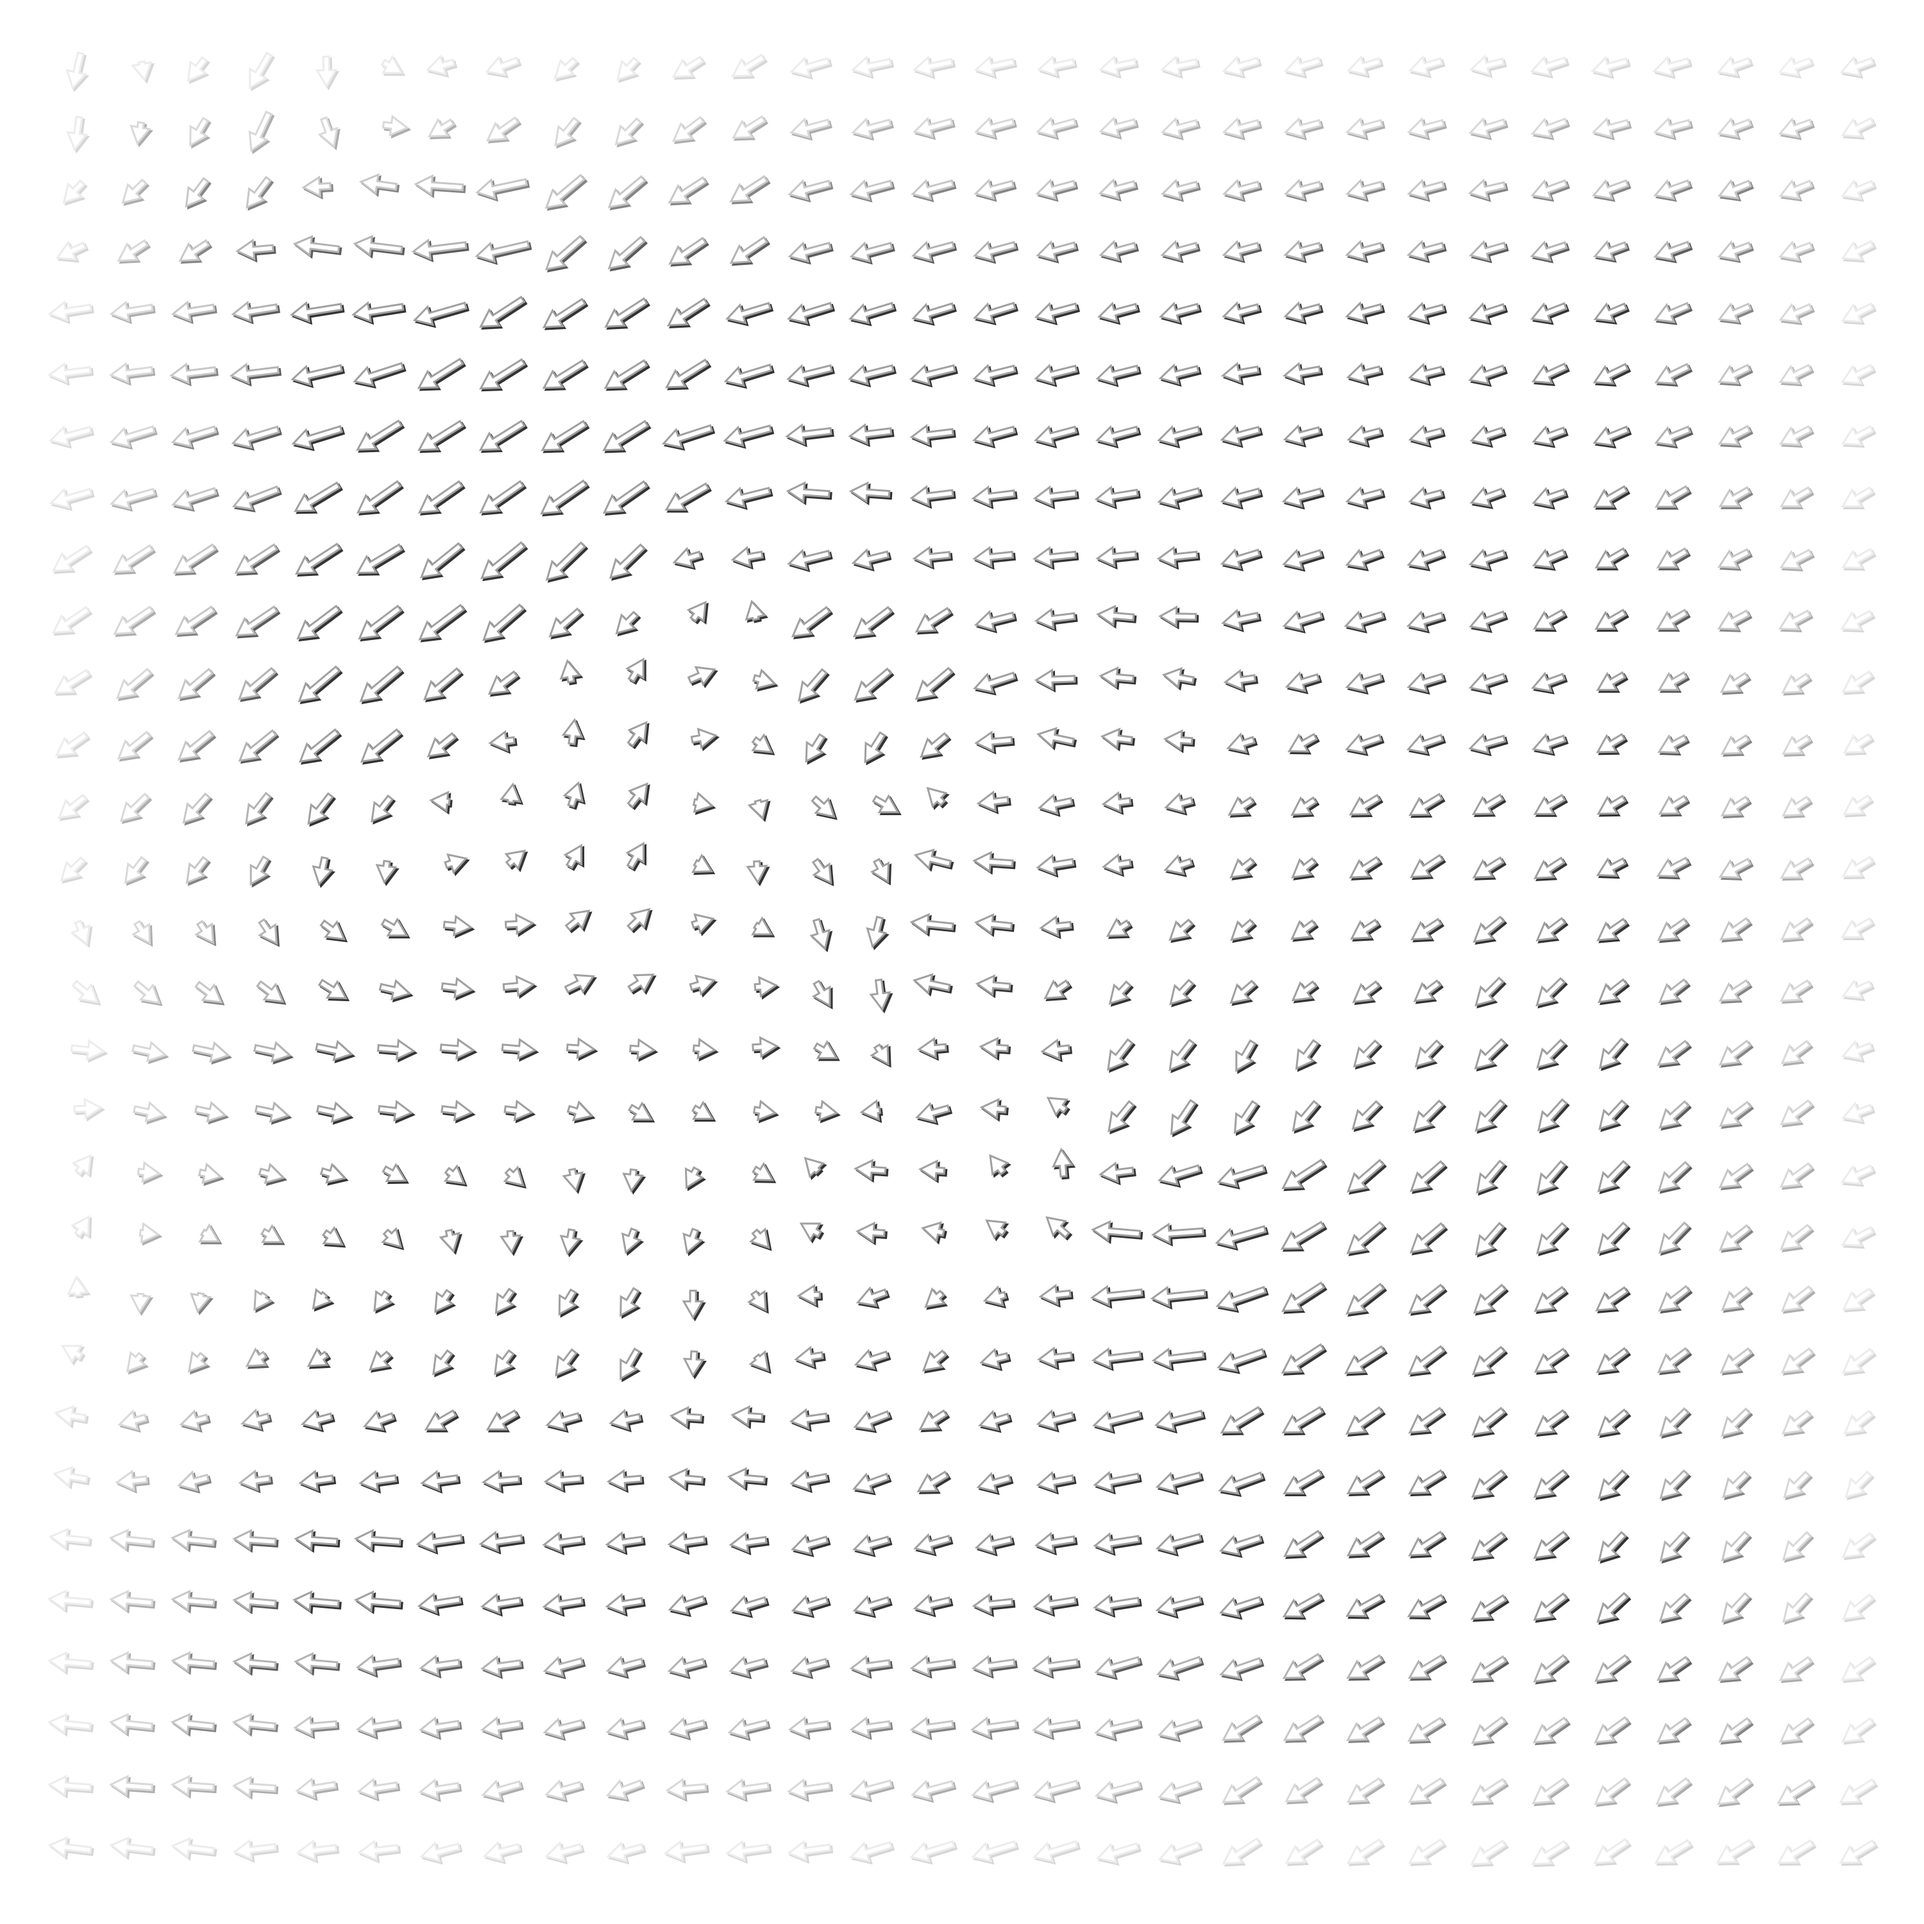
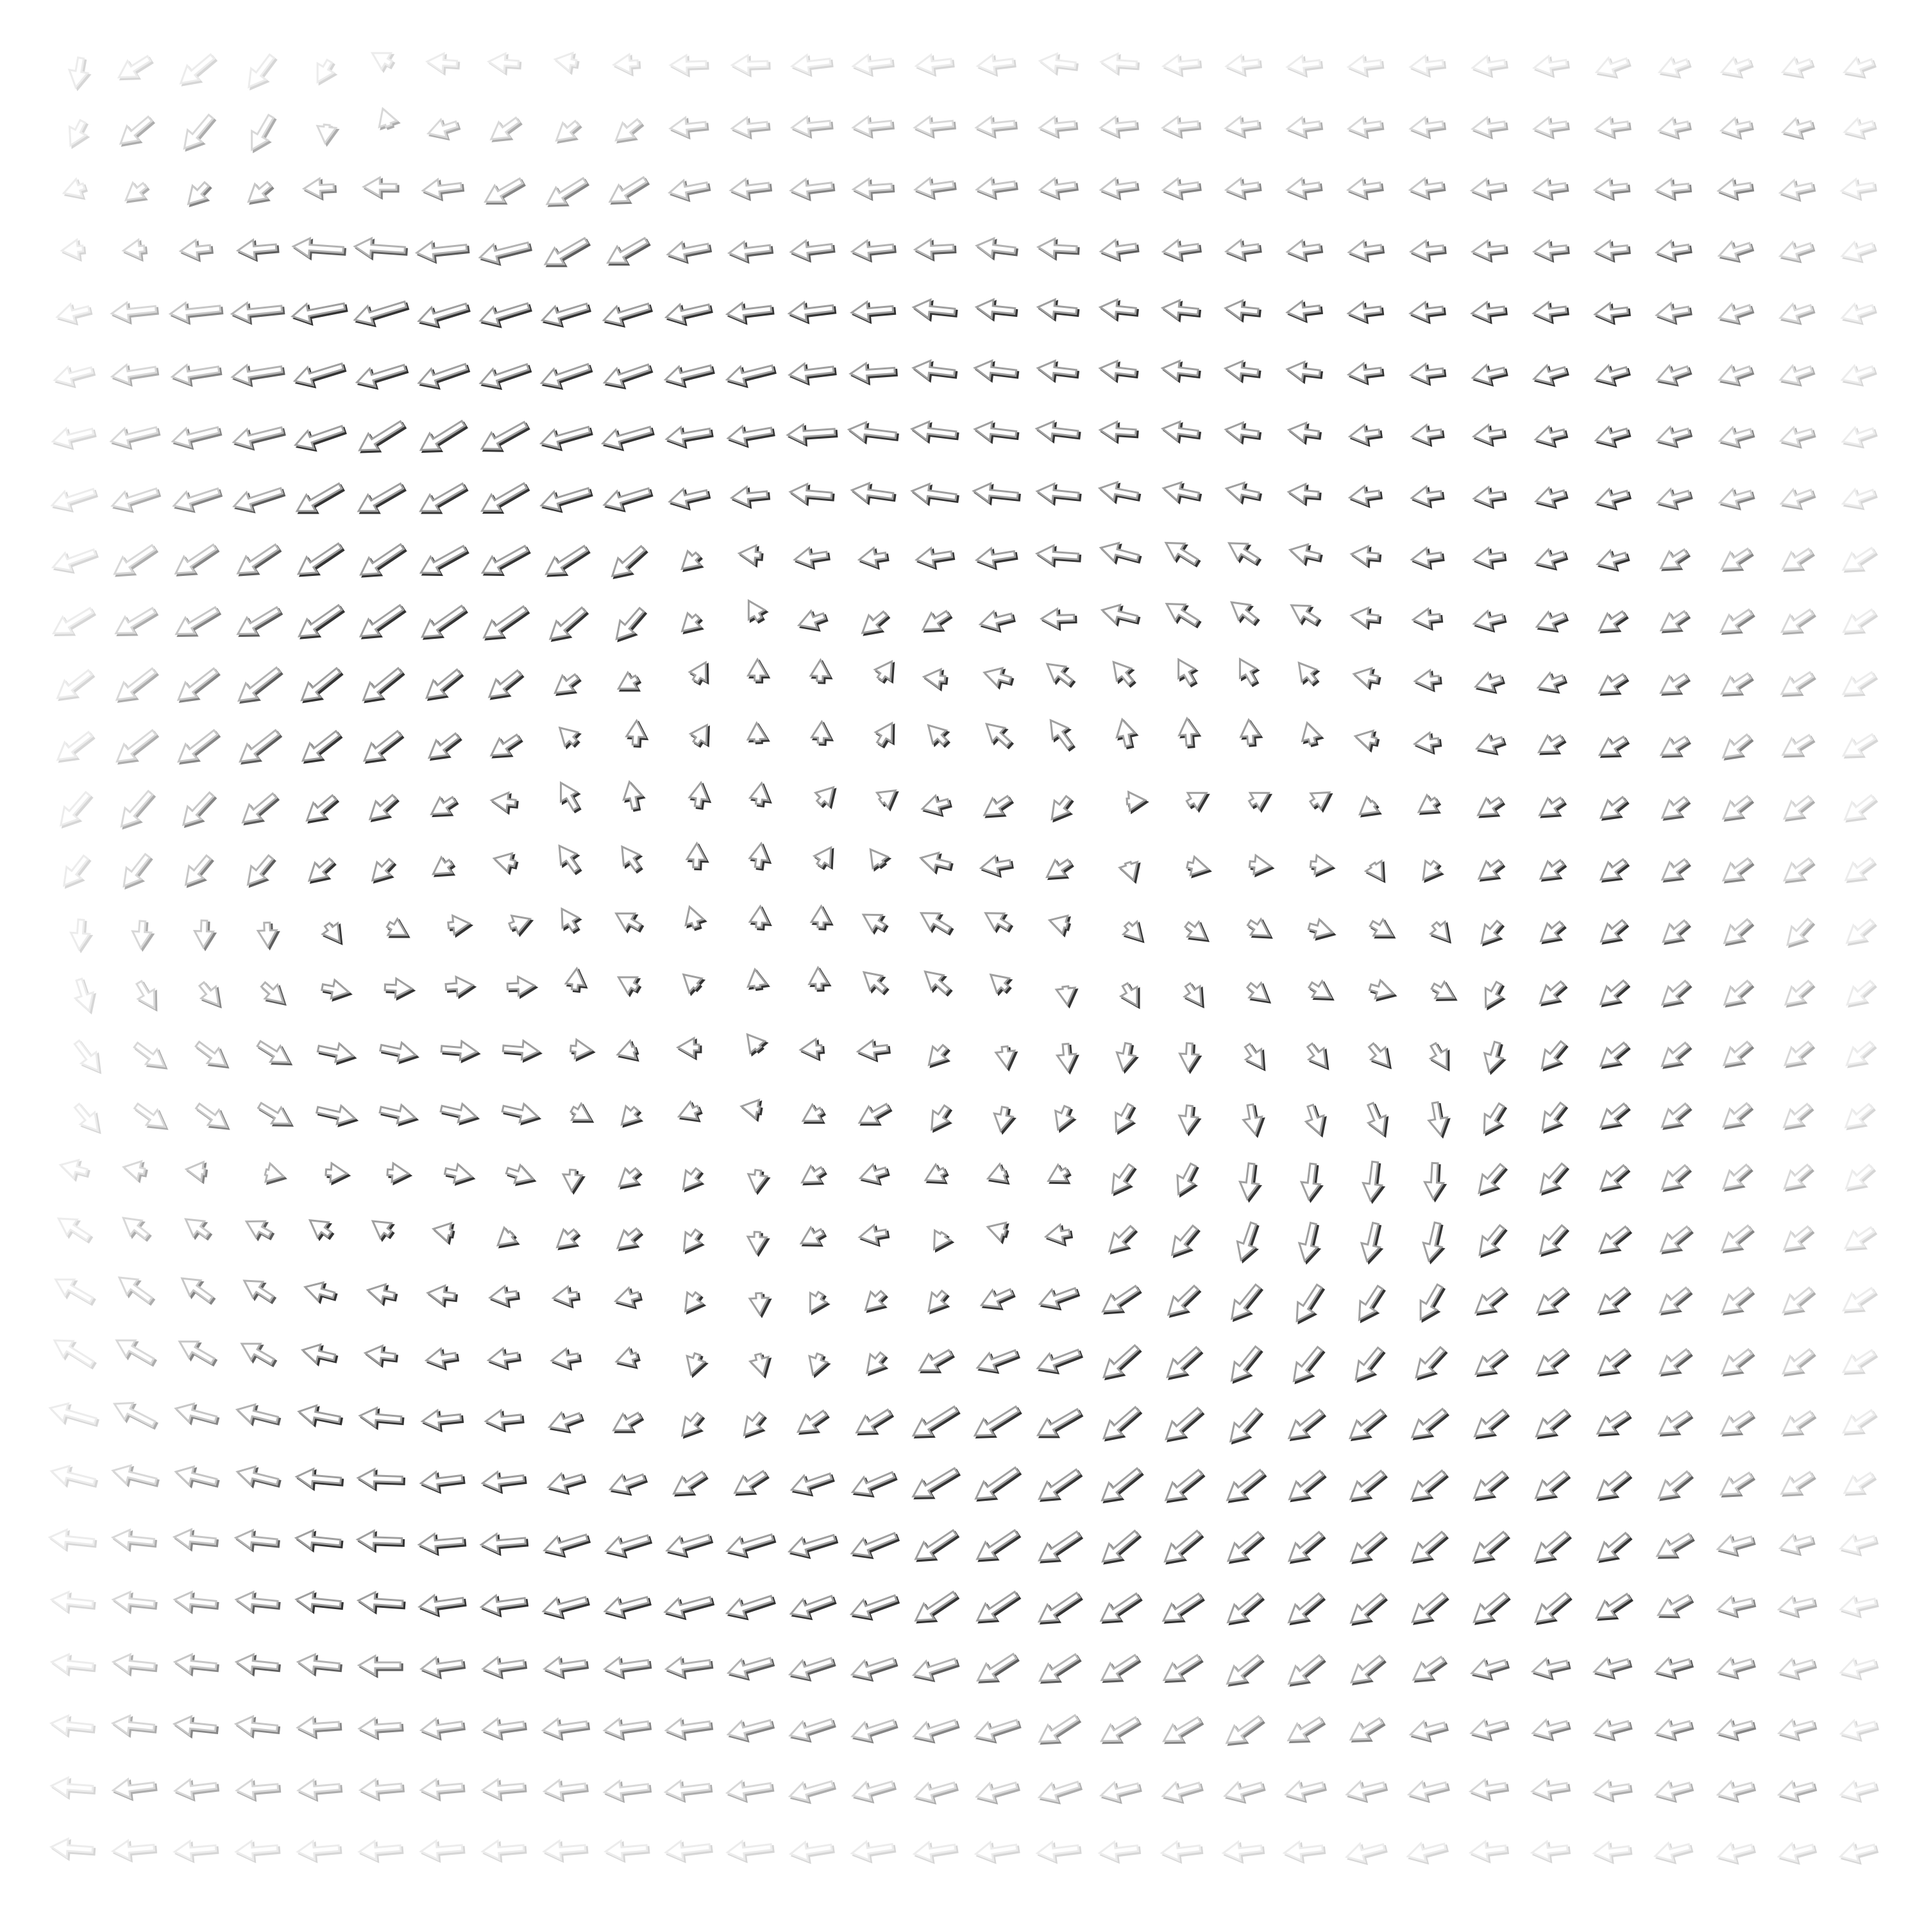
Update trade winds visualization.

diff --git a/src/hooks/lava-coder/use-show-wind-pattern.ts b/src/hooks/lava-coder/use-show-wind-pattern.ts
@@ -1,7 +1,7 @@
 import { Cartesian3, CesiumWidget, Entity, ImageMaterialProperty, Rectangle } from "@cesium/engine";
 import { reaction } from "mobx";
 import { useEffect, useRef } from "react";
-import tradeWindsPng from "../../assets/lava-coder/wind-patterns/trade-winds-arrows-w-island@3x.png";
+import tradeWindsPng from "../../assets/lava-coder/wind-patterns/trade-winds-arrows@3x.png";
 // import { tradeWindsSvg } from "../../assets/lava-coder/wind-patterns/trade-winds-svg";
 // import { tradeWindsDenseSvg } from "../../assets/lava-coder/wind-patterns/trade-winds-dense-svg";
 import { lavaSimulation } from "../../stores/lava-simulation-store";
